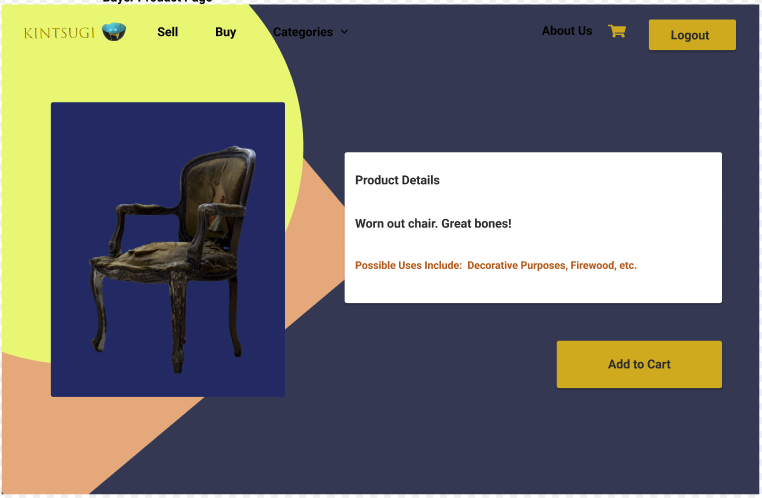
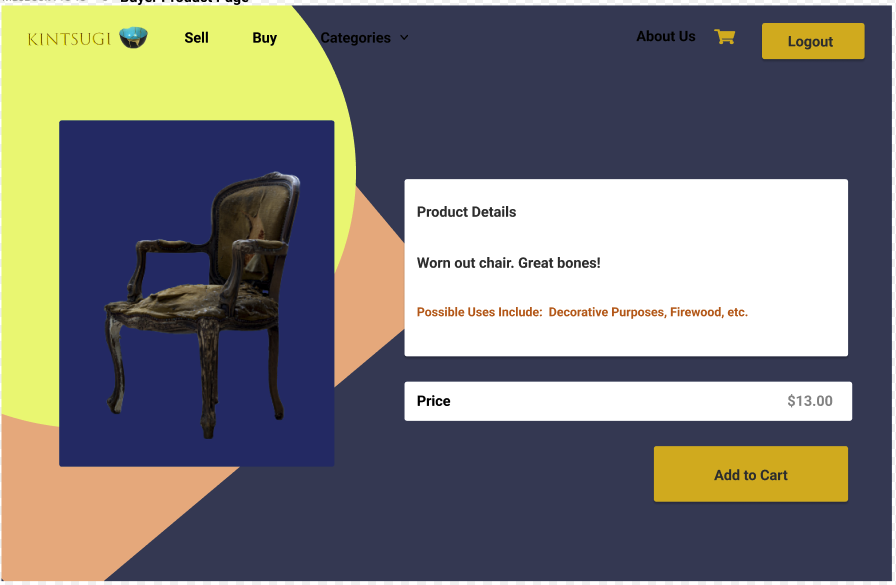
Completed Acceptance Criteria. Redid mockups to include price for items.

diff --git a/README.md b/README.md
@@ -36,7 +36,34 @@ GIVEN an ecommerce platform
 WHEN I load the homepage
 THEN I am presented with a page containing a header, a section for content
 WHEN I view the header
-THEN ...
+THEN I am presented with options for selling, buying, categories, and login
+WHEN I click on the login page
+THEN I am presented with a login page with inputs for email and password
+WHEN I enter the email and password
+THEN I am presented with the option to click the login button or sign up for a new account
+WHEN I click on the sign up link
+THEN I am presented with a sign up page with an email input, password input, and sign up button
+WHEN I am logged in
+THEN I am presented with the launch page for user or seller and a logout button is included in the navbar
+WHEN I am logged in as the seller
+THEN I am presented with my gallery of items I have on sale and the option to add an item to the gallery
+WHEN I click on the button to add an item
+THEN I am taken to the page for adding items with the full product details
+WHEN I am on the product details page as a seller
+THEN I have the ability to add an image, include a product description, include a price, and add it to the gallery
+WHEN I click the button to add it to the gallery
+THEN I am taken back to the gallery page
+WHEN I am logged in as the buyer
+THEN I am presented with gallery of possible products to buy
+WHEN I click on an item then I am taken to the product details page for buyers
+WHEN I am in the product details page as a buyer
+THEN I am presented with an image of the product, product details, the item price, and add to cart button
+WHEN I click on the add to cart button
+THEN I am presented with a pop-up window thanking me for my purchase and a button to return to the gallery
+WHEN I click on return to gallery
+THEN I return to the product gallery page for buyers
+WHEN I click on the logout button
+THEN I am logged out
 ```
 
 ## Installation
